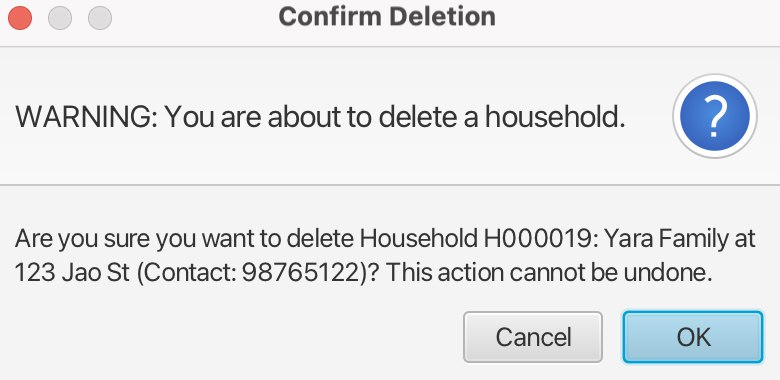
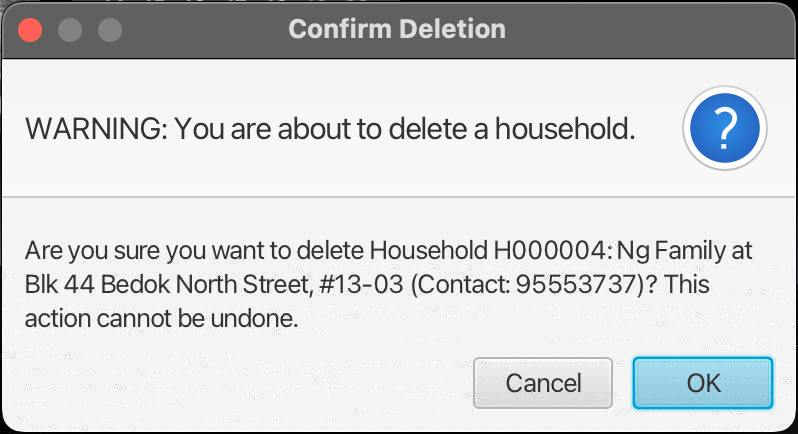
Update UI images

Changed region(s): [[0.0, 0.0, 1.0, 1.0], [0.0, 0.2605, 0.8, 0.3474]]

diff --git a/docs/UserGuide.md b/docs/UserGuide.md
@@ -108,12 +108,12 @@ add n/HOUSEHOLD_NAME a/ADDRESS p/PHONE_NUMBER
 
 Example of usage:
 ```
-add n/Tan Family a/Blk 30 Geylang Street 29, #06-40 p/91234567
+add n/Ng Family a/Blk 44 Bedok North Street, #13-03 p/95553737
 ```
 
 Expected outcome:
 ```
-New household added: Household H000012: Tan Family at Blk 30 Geylang Street 29, #06-40 (Contact: 91234567)
+New household added: Household H000004: Ng Family at Blk 44 Bedok North Street, #13-03 (Contact: 95553737)
 ```
 
 ![add-household success message](images/add-household.png)
@@ -146,7 +146,7 @@ delete id/HOUSEHOLD_ID
 
 Example of usage:
 ```
-delete id/H000019
+delete id/H000004
 ```
 
 The following confirmation dialog box will appear:
@@ -154,7 +154,7 @@ The following confirmation dialog box will appear:
 
 Upon confirmation, you will see this message:
 ```
-Deleted Household: Household H000013: Tan Family Urgent at Blk 30 Geylang Street 29, #06-40 (Contact: 98765432)
+Deleted Household: Household H000004: Ng Family at Blk 44 Bedok North Street, #13-03 (Contact: 95553737)
 ```
 
 > **Warning**: Deleting a household will also delete all associated sessions. This action cannot be undone.
@@ -304,6 +304,8 @@ Expected outcome:
 ```
 Viewing sessions for household: H000001
 ```
+
+![view-household-sessions outcome](images/view-household-sessions.png)
 
 --------------------------------------------------------------------------------------------------------------------
 

diff --git a/docs/SettingUp.md b/docs/SettingUp.md
@@ -1,7 +1,7 @@
 ---
-  layout: default.md
-  title: "Setting up and getting started"
-  pageNav: 3
+layout: default.md
+title: "Setting up and getting started"
+pageNav: 3
 ---
 
 # Setting up and getting started
